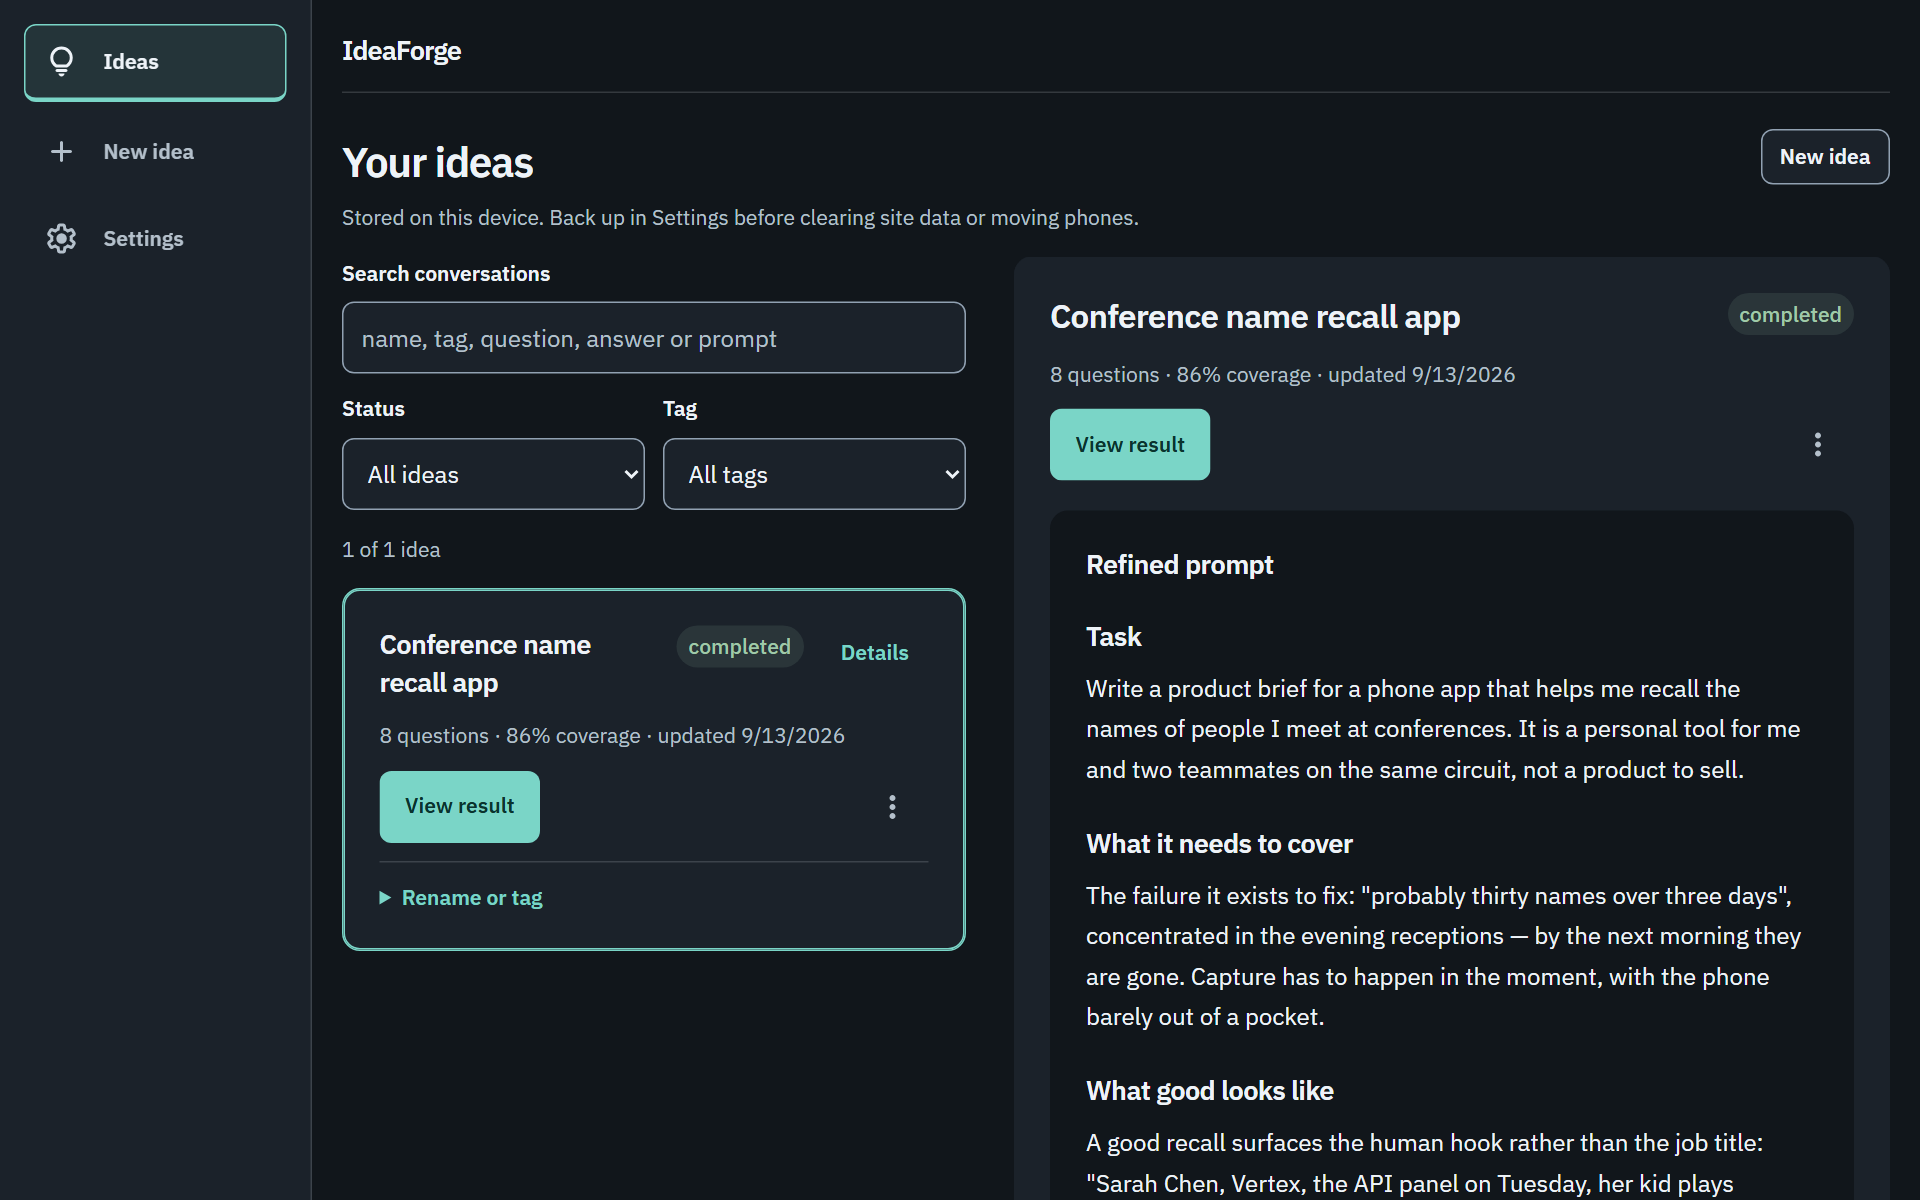
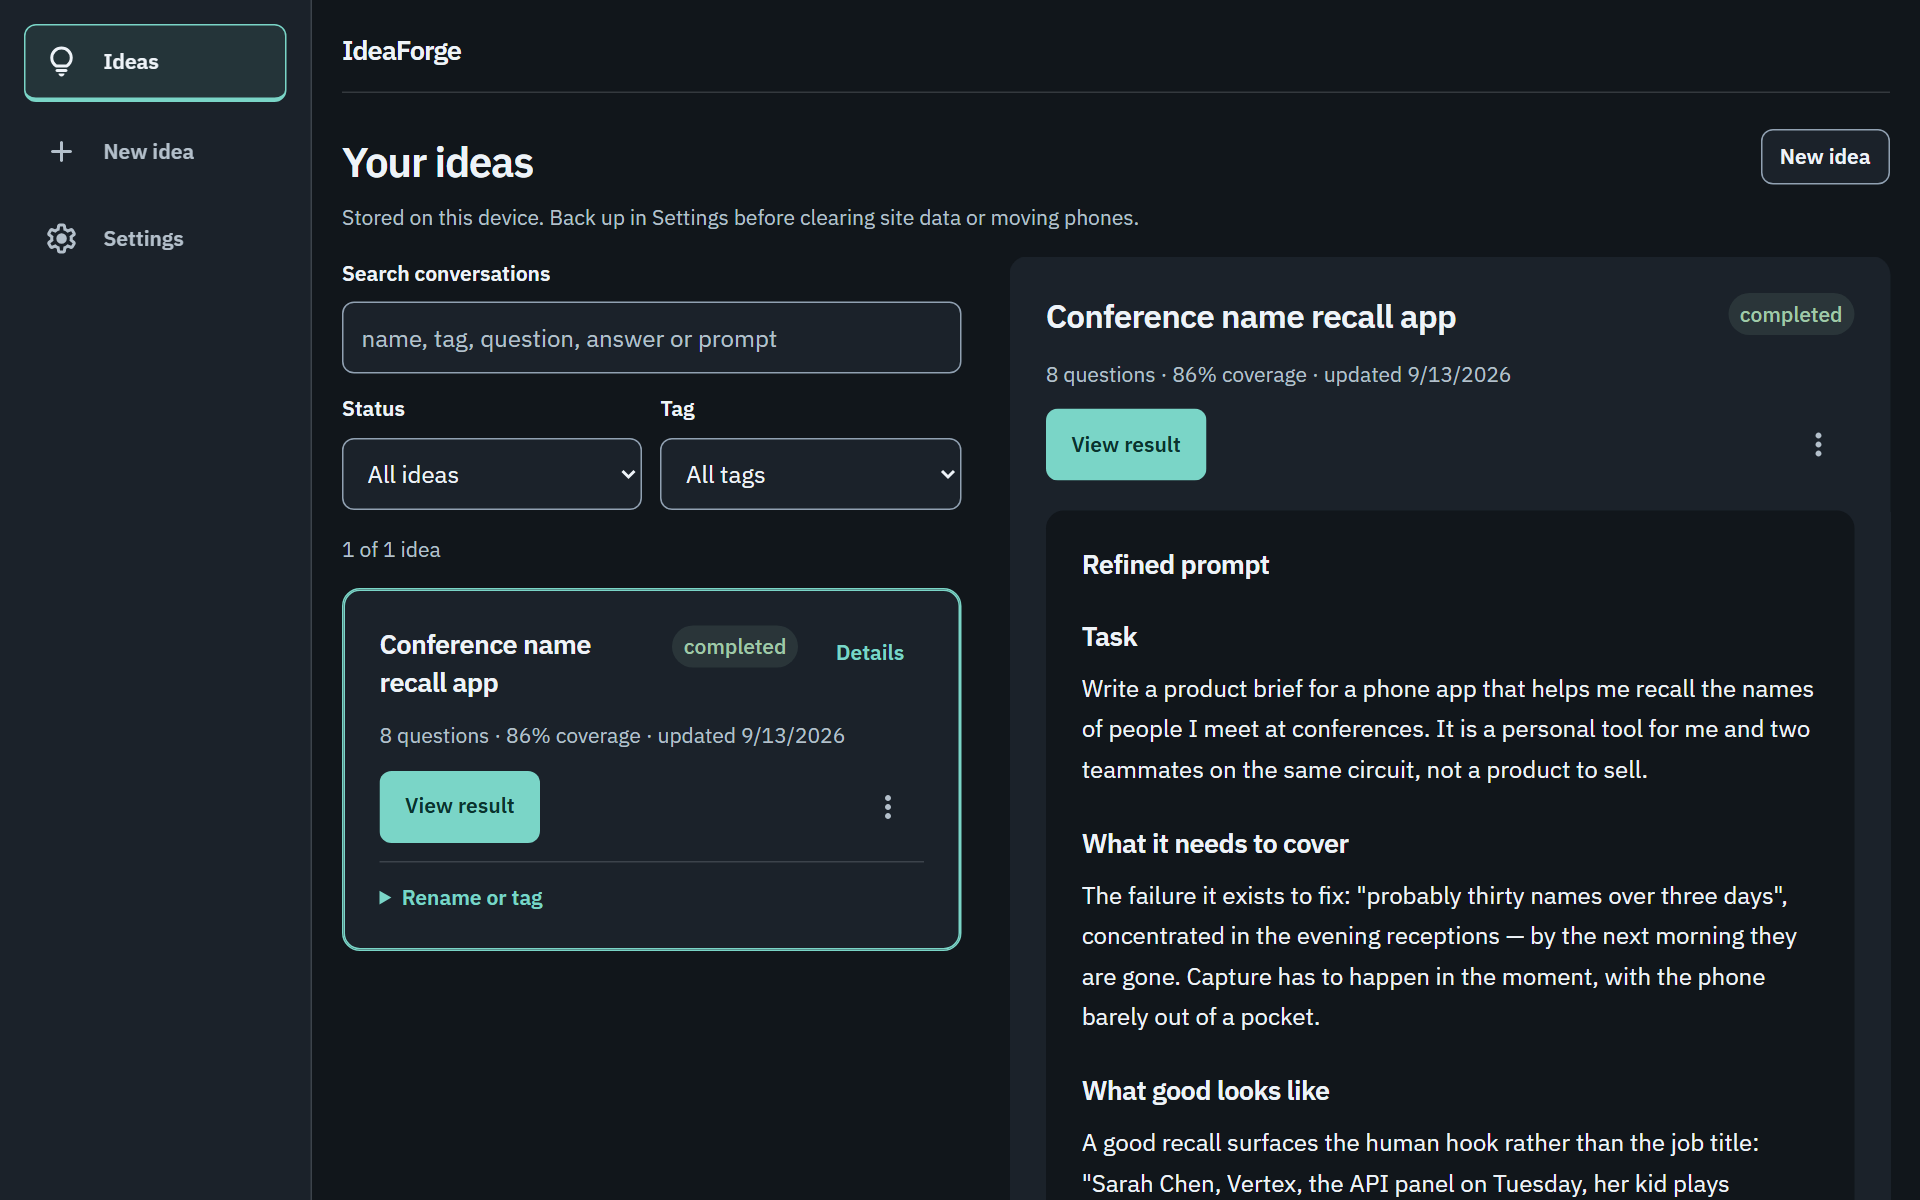
Fix adversarial shell enlargement and inset findings
Bound the library list against post-rail space, retain visible sticky panes at page end, and fully retire the unfocused skip link with tall safe areas. Prove actual action/preview geometry at 200% in both themes and reuse seeded loading setup with explicit frame-local diagnostics.

diff --git a/src/ui/app.css b/src/ui/app.css
@@ -159,7 +159,8 @@ body[data-panel="done"] .wrap {
   padding: var(--s2) var(--s3); border-radius: var(--r-sm);
   background: var(--accent); color: var(--accent-ink);
   font-size: var(--t-md); font-weight: 600; text-decoration: none;
-  transform: translateY(-200%); transition: transform var(--dur-short3) var(--ease);
+  transform: translateY(calc(-200% - env(safe-area-inset-top)));
+  transition: transform var(--dur-short3) var(--ease);
 }
 /* :focus, not :focus-visible. The link is off screen, so it is only ever focused from the
    keyboard or by assistive technology, and a screen reader moving focus does not always
@@ -1024,7 +1025,8 @@ dialog h2 { font-size: var(--type-title-size); line-height: var(--type-title-lin
   /* Ideas: list | detail. Only once there are ideas (or their placeholders): the zero state
      and a failed first read stay the single column they were designed as. */
   #panel-library:is([data-library-state="ready"], [data-library-state="loading"]) {
-    display: grid; grid-template-columns: minmax(20rem, 26rem) minmax(0, 1fr);
+    /* Enlarged rems must not consume the detail pane's post-rail workspace. */
+    display: grid; grid-template-columns: minmax(0, min(26rem, 40%)) minmax(0, 1fr);
     grid-template-rows: repeat(6, auto) 1fr; column-gap: var(--s6); row-gap: 0;
   }
   #panel-library:is([data-library-state="ready"], [data-library-state="loading"]) > * {
@@ -1038,9 +1040,10 @@ dialog h2 { font-size: var(--type-title-size); line-height: var(--type-title-lin
   #panel-library:is([data-library-state="ready"], [data-library-state="loading"]) > .library-detail:not(:empty) {
     grid-column: 2; grid-row: 2 / -1; align-self: start;
     display: flex; flex-direction: column; gap: var(--s3);
-    position: sticky; top: var(--s4);
+    position: sticky; top: max(var(--s4), env(safe-area-inset-top));
     /* Stuck, it must fit the viewport; the preview scrolls inside the pane, not the page. */
-    max-height: calc(100dvh - 2 * var(--s4)); overflow-y: auto; overscroll-behavior: contain;
+    max-height: calc(100dvh - var(--page-bottom) - max(var(--s4), env(safe-area-inset-top)));
+    overflow-y: auto; overscroll-behavior: contain;
     padding: var(--s5); border: 0; border-radius: var(--r-md);
     background: var(--surface-container-lowest);
   }

diff --git a/docs/DESIGN.md b/docs/DESIGN.md
@@ -123,8 +123,10 @@ padding contract and task-specific form/conversation/library/settings/document m
 Voice removes the rail clearance and hides the navigation through the existing `hidden`
 state. Rail overflow can scroll vertically in a short or enlarged-text window; labels
 and keyboard focus are not discarded. Error toasts stay on the work side, not over the rail.
-The coverage side panel's sticky height reserves the same bottom thumb gap as `.wrap`,
-so reading to the page end cannot push its top out of a short viewport.
+Coverage and the library detail pane reserve the same bottom thumb gap as `.wrap`,
+so reading to the page end cannot push their tops out of the viewport. The library list
+track is bounded by its actual remaining workspace, not enlarged rems alone, so the
+detail actions and prose retain room at 200% text.
 The existing Result height cap/action placement remain until #203; this is not the complete
 document makeover.
 
